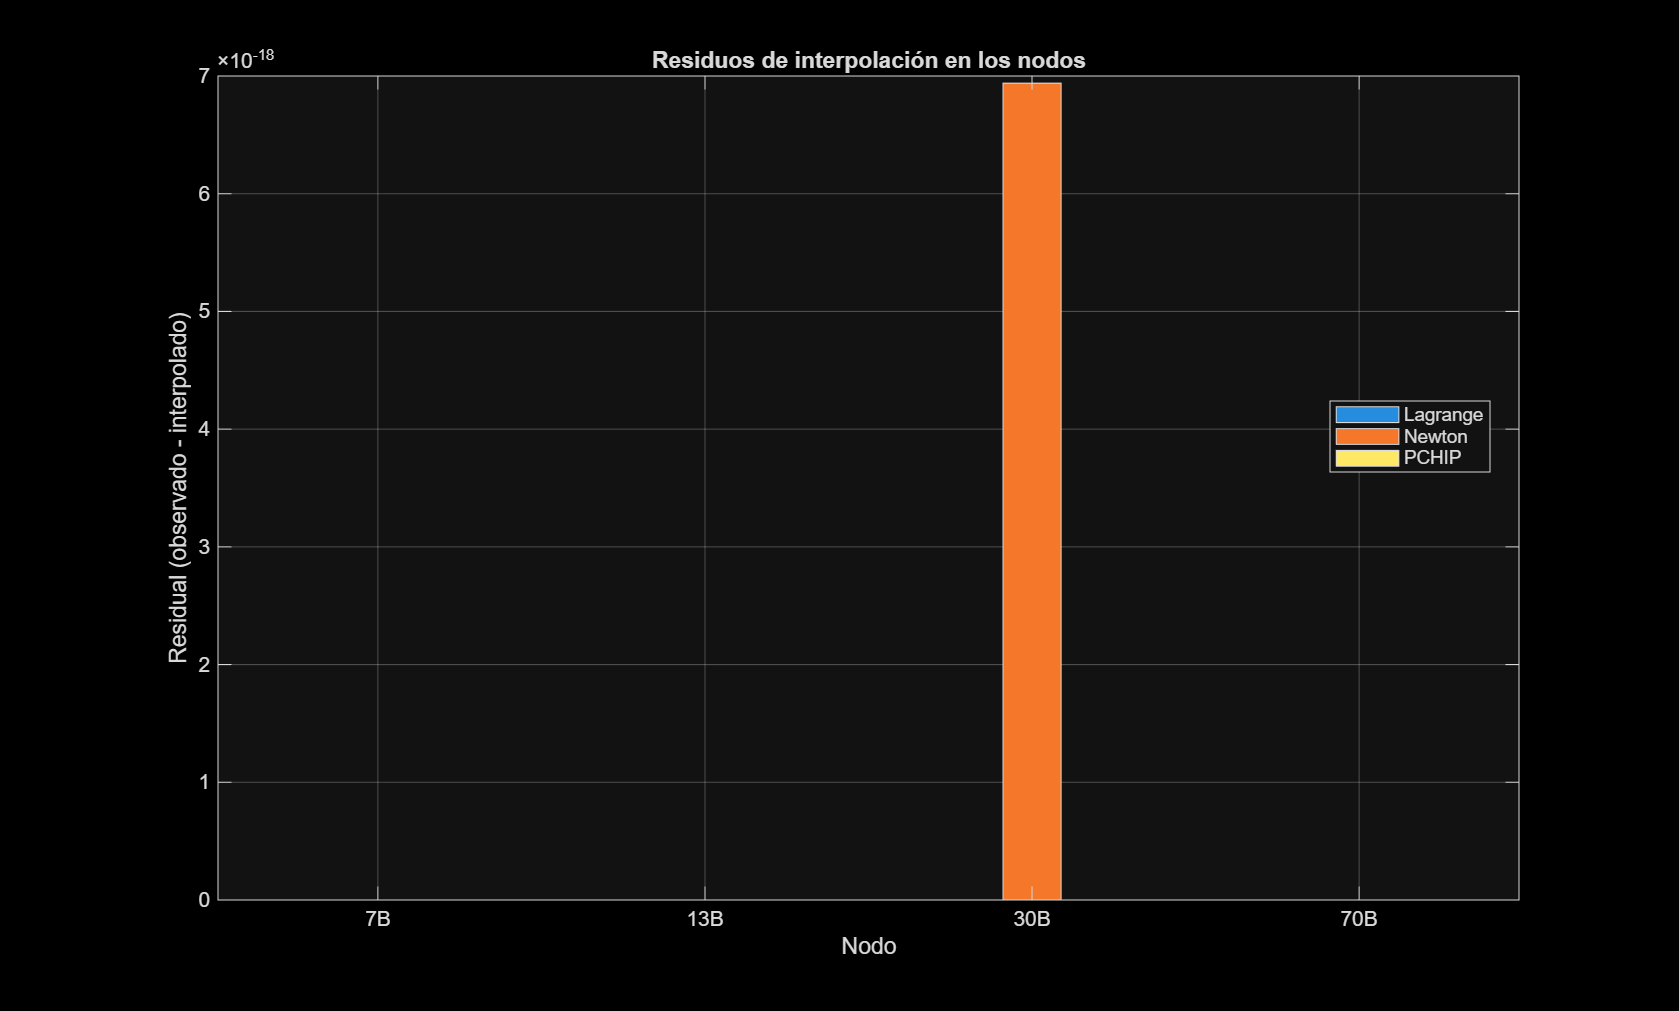
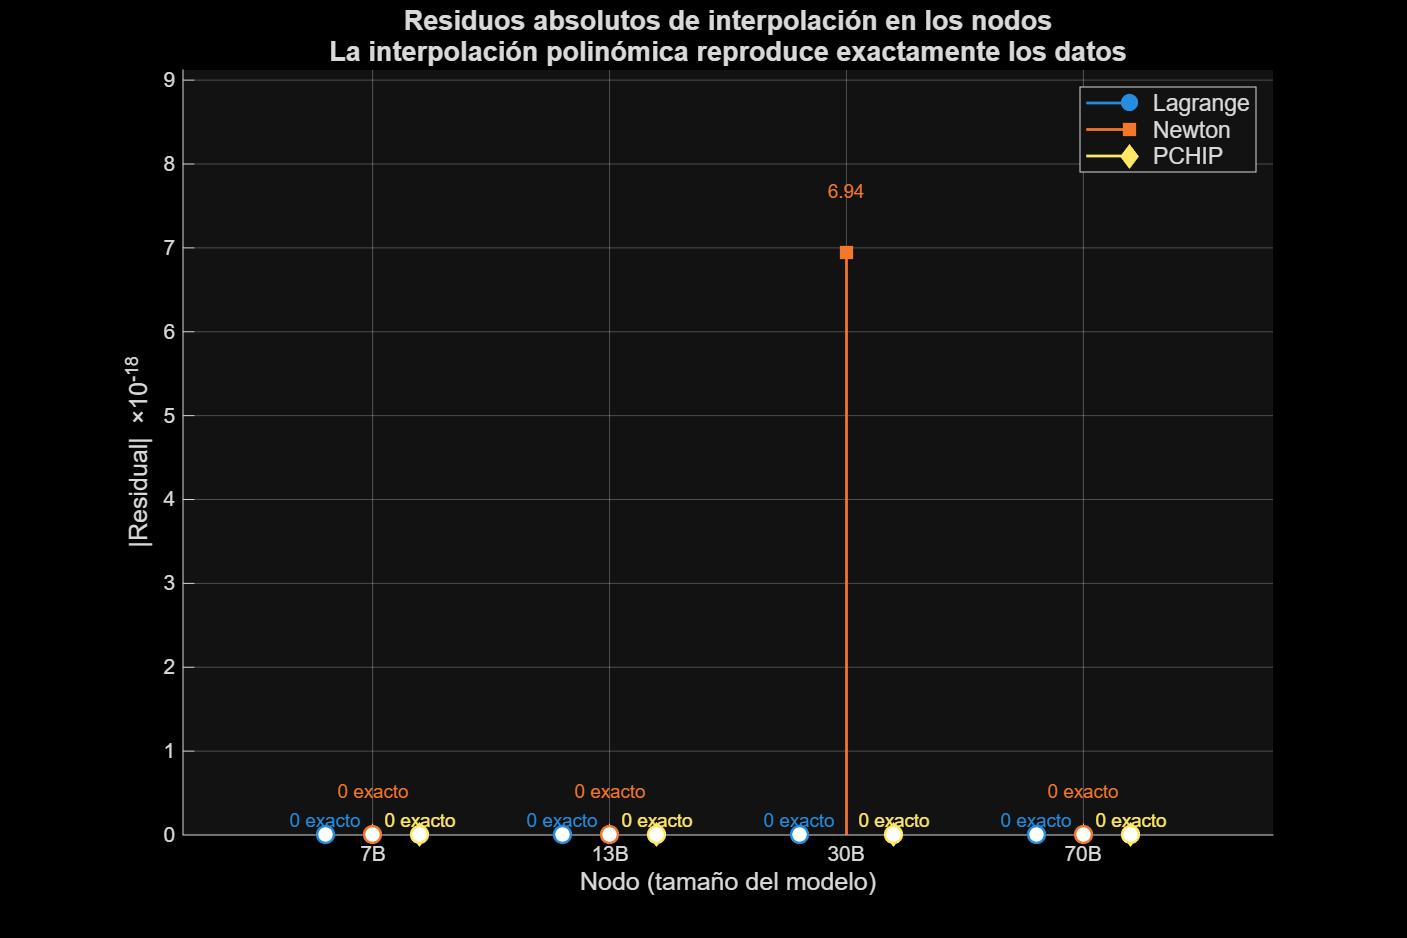
Enhance residuals visualization in polynomial interpolation script with improved scaling and lollipop diagram

diff --git a/src/interpolacion_polinomica.m b/src/interpolacion_polinomica.m
@@ -125,18 +125,76 @@ function interpolacion_polinomica()
     close;
 
     % Figura 2: Residuales en nodos
-    figure;
+    figure('Position', [100, 100, 900, 600]);
     % Predicciones en nodos para cada método
     y_lagr_nodes = lagrange_eval(X, Y, X);
     y_newt_nodes = newton_dd_eval(X, coeff_newton, X);
     y_pchip_nodes = interp1(X, Y, X, 'pchip');
-    bar([Y - y_lagr_nodes; Y - y_newt_nodes; Y - y_pchip_nodes]');
-    set(gca,'XTickLabel',{'7B','13B','30B','70B'});
-    xlabel('Nodo');
-    ylabel('Residual (observado - interpolado)');
-    legend({'Lagrange','Newton','PCHIP'}, 'Location','best');
-    title('Residuos de interpolación en los nodos');
+    
+    % Calcular residuos absolutos
+    residual_lagr = abs(Y - y_lagr_nodes);
+    residual_newt = abs(Y - y_newt_nodes);
+    residual_pchip = abs(Y - y_pchip_nodes);
+    
+    % Crear matriz de residuos para graficar y escalarla para mejorar la legibilidad
+    residuals_matrix = [residual_lagr; residual_newt; residual_pchip]';
+    max_residual = max(residuals_matrix(:));
+    if max_residual == 0
+        scale_exp = 0;
+        scale_factor = 1;
+    else
+        scale_exp = floor(log10(max_residual));
+        scale_factor = 10^(-scale_exp);
+    end
+    residuals_scaled = residuals_matrix * scale_factor;
+
+    % Diagrama tipo "lollipop" para resaltar zeros exactos y pequeños residuos
+    offsets = [-0.2, 0, 0.2];
+    colors = lines(3);
+    markers = {'o','s','d'};
+    stem_handles = gobjects(1,3);
+    xbase = 1:length(X);
+    hold on;
+    for k = 1:3
+        xk = xbase + offsets(k);
+        yk = residuals_scaled(:,k);
+        stem_handles(k) = stem(xk, yk, 'Color', colors(k,:), 'LineWidth', 1.3, ...
+            'Marker', markers{k}, 'MarkerFaceColor', colors(k,:), 'MarkerSize', 7);
+        zero_idx = residuals_matrix(:,k) == 0;
+        if any(zero_idx)
+            scatter(xk(zero_idx), zeros(nnz(zero_idx),1), 65, 'MarkerEdgeColor', colors(k,:), ...
+                'MarkerFaceColor', 'w', 'LineWidth', 1.2, 'HandleVisibility','off');
+            text(xk(zero_idx), zeros(nnz(zero_idx),1) + max(yk(:))*0.05 + 0.05, '0 exacto', ...
+                'HorizontalAlignment','center','VerticalAlignment','bottom','FontSize',9,'Color',colors(k,:));
+        end
+        nz_idx = ~zero_idx;
+        if any(nz_idx)
+            text(xk(nz_idx), yk(nz_idx) + max(yk(:))*0.08 + 0.05, ...
+                arrayfun(@(v) sprintf('%.2f', v), yk(nz_idx), 'UniformOutput', false), ...
+                'HorizontalAlignment','center','VerticalAlignment','bottom','FontSize',9,'Color',colors(k,:));
+        end
+    end
+    hold off;
+
+    xticks(xbase);
+    xticklabels({'7B','13B','30B','70B'});
+    xlabel('Nodo (tamaño del modelo)', 'FontSize', 12);
+    if scale_exp ~= 0
+        ylabel(sprintf('|Residual| ×10^{%d}', scale_exp), 'FontSize', 12);
+    else
+        ylabel('|Residual|', 'FontSize', 12);
+    end
+    title({'Residuos absolutos de interpolación en los nodos', ...
+           'La interpolación polinómica reproduce exactamente los datos'}, 'FontSize', 13);
+    legend(stem_handles, {'Lagrange','Newton','PCHIP'}, 'Location','northeast', 'FontSize', 11);
     grid on;
+
+    ymax = max(residuals_scaled(:));
+    if ymax == 0
+        ymax = 1;
+    end
+    ylim([0, ymax*1.3 + 0.1]);
+    
     saveas(gcf, 'fig_residuals.png');
     close;
 
